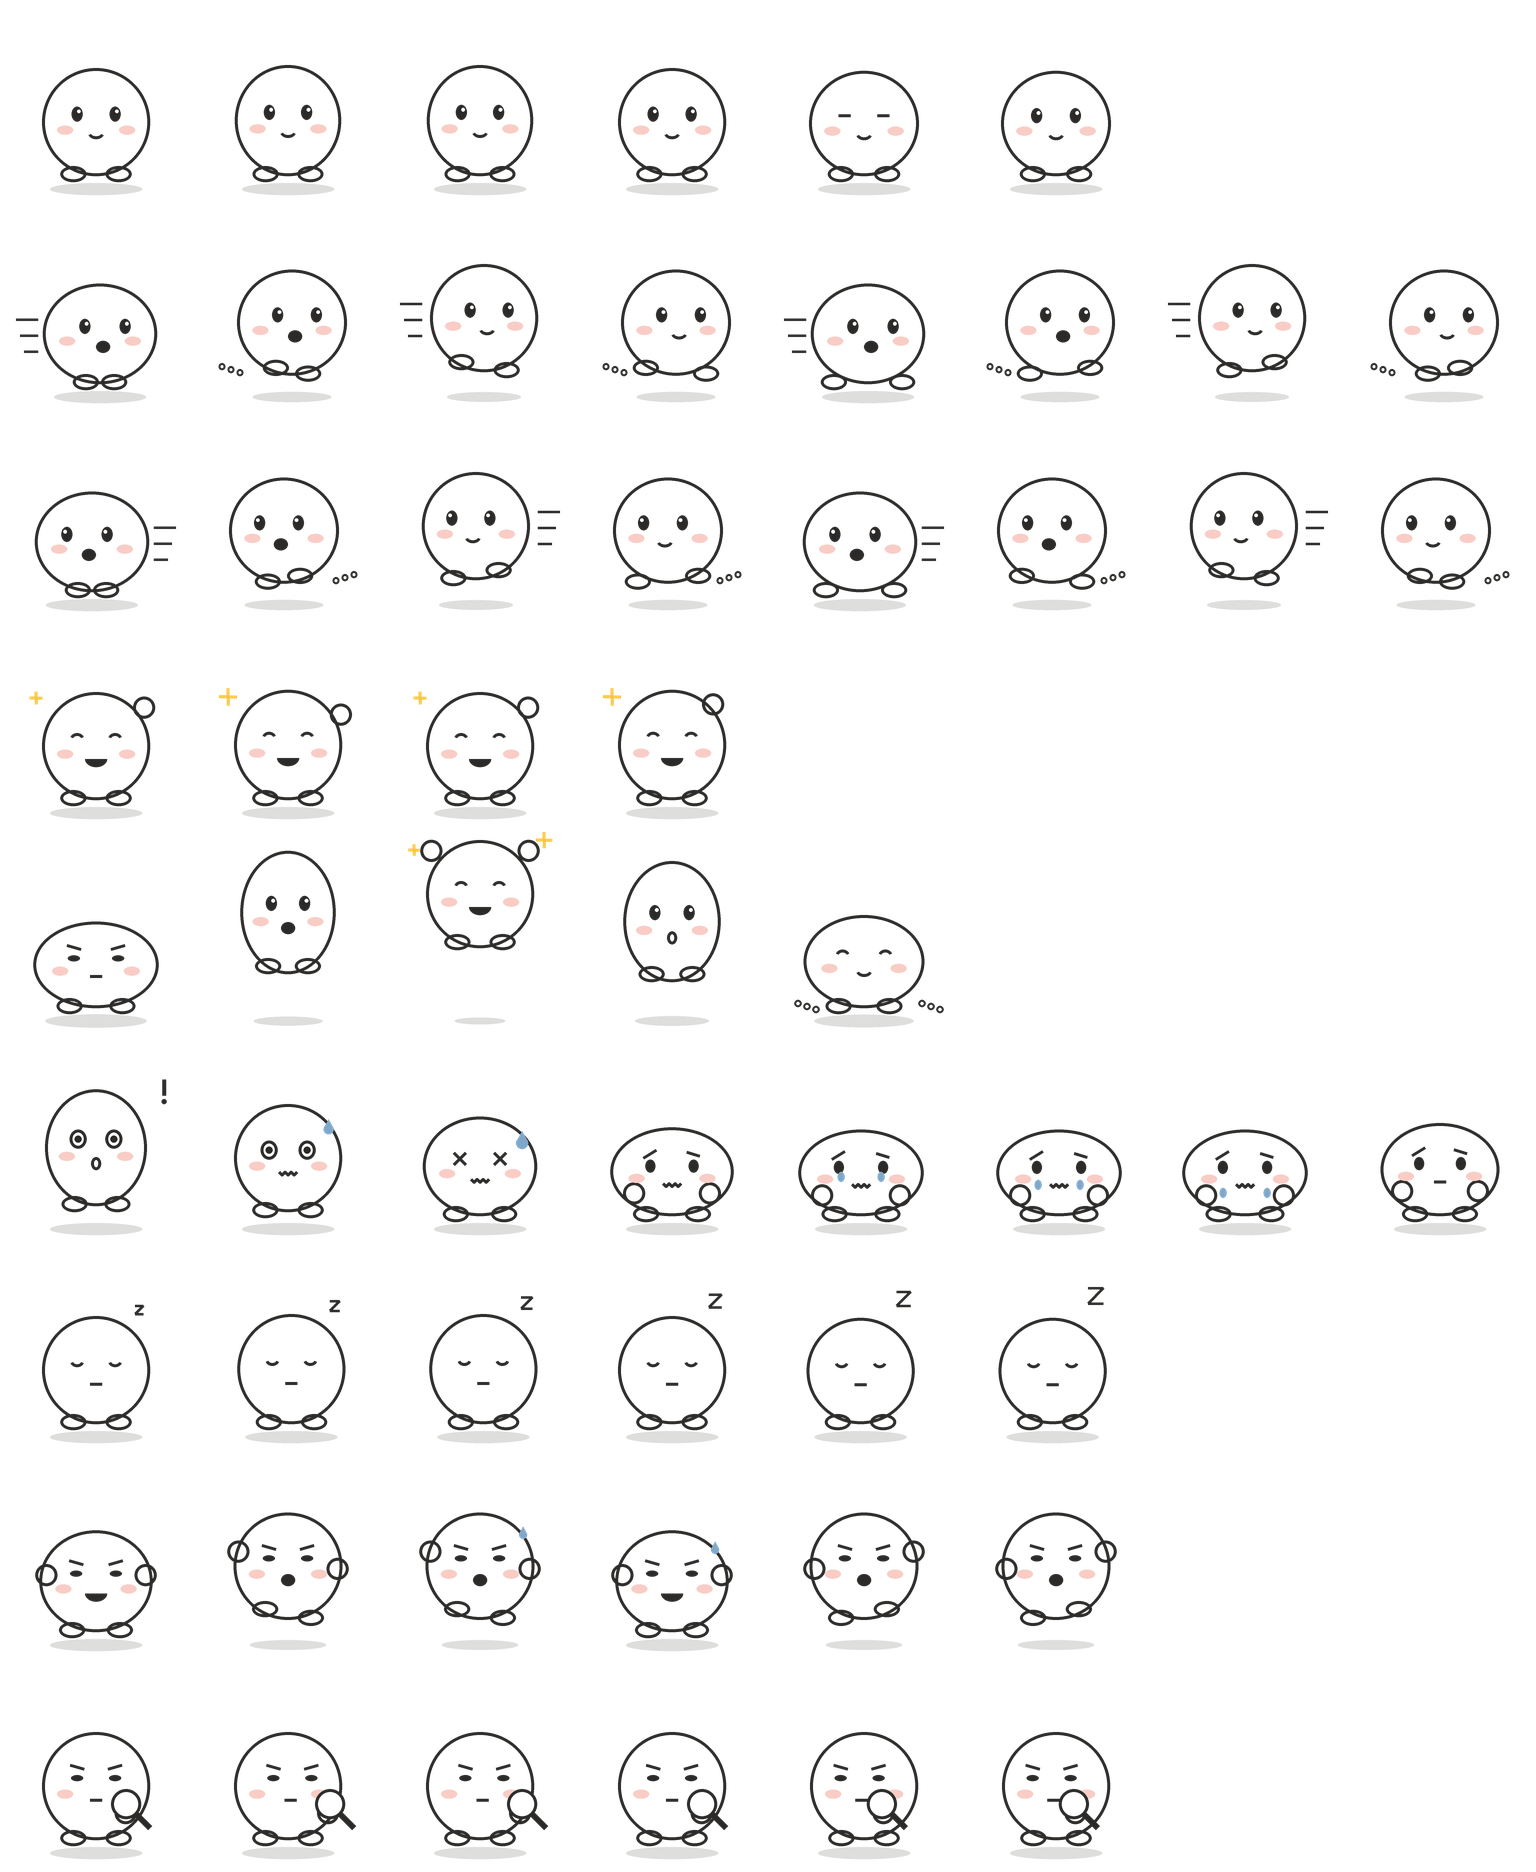
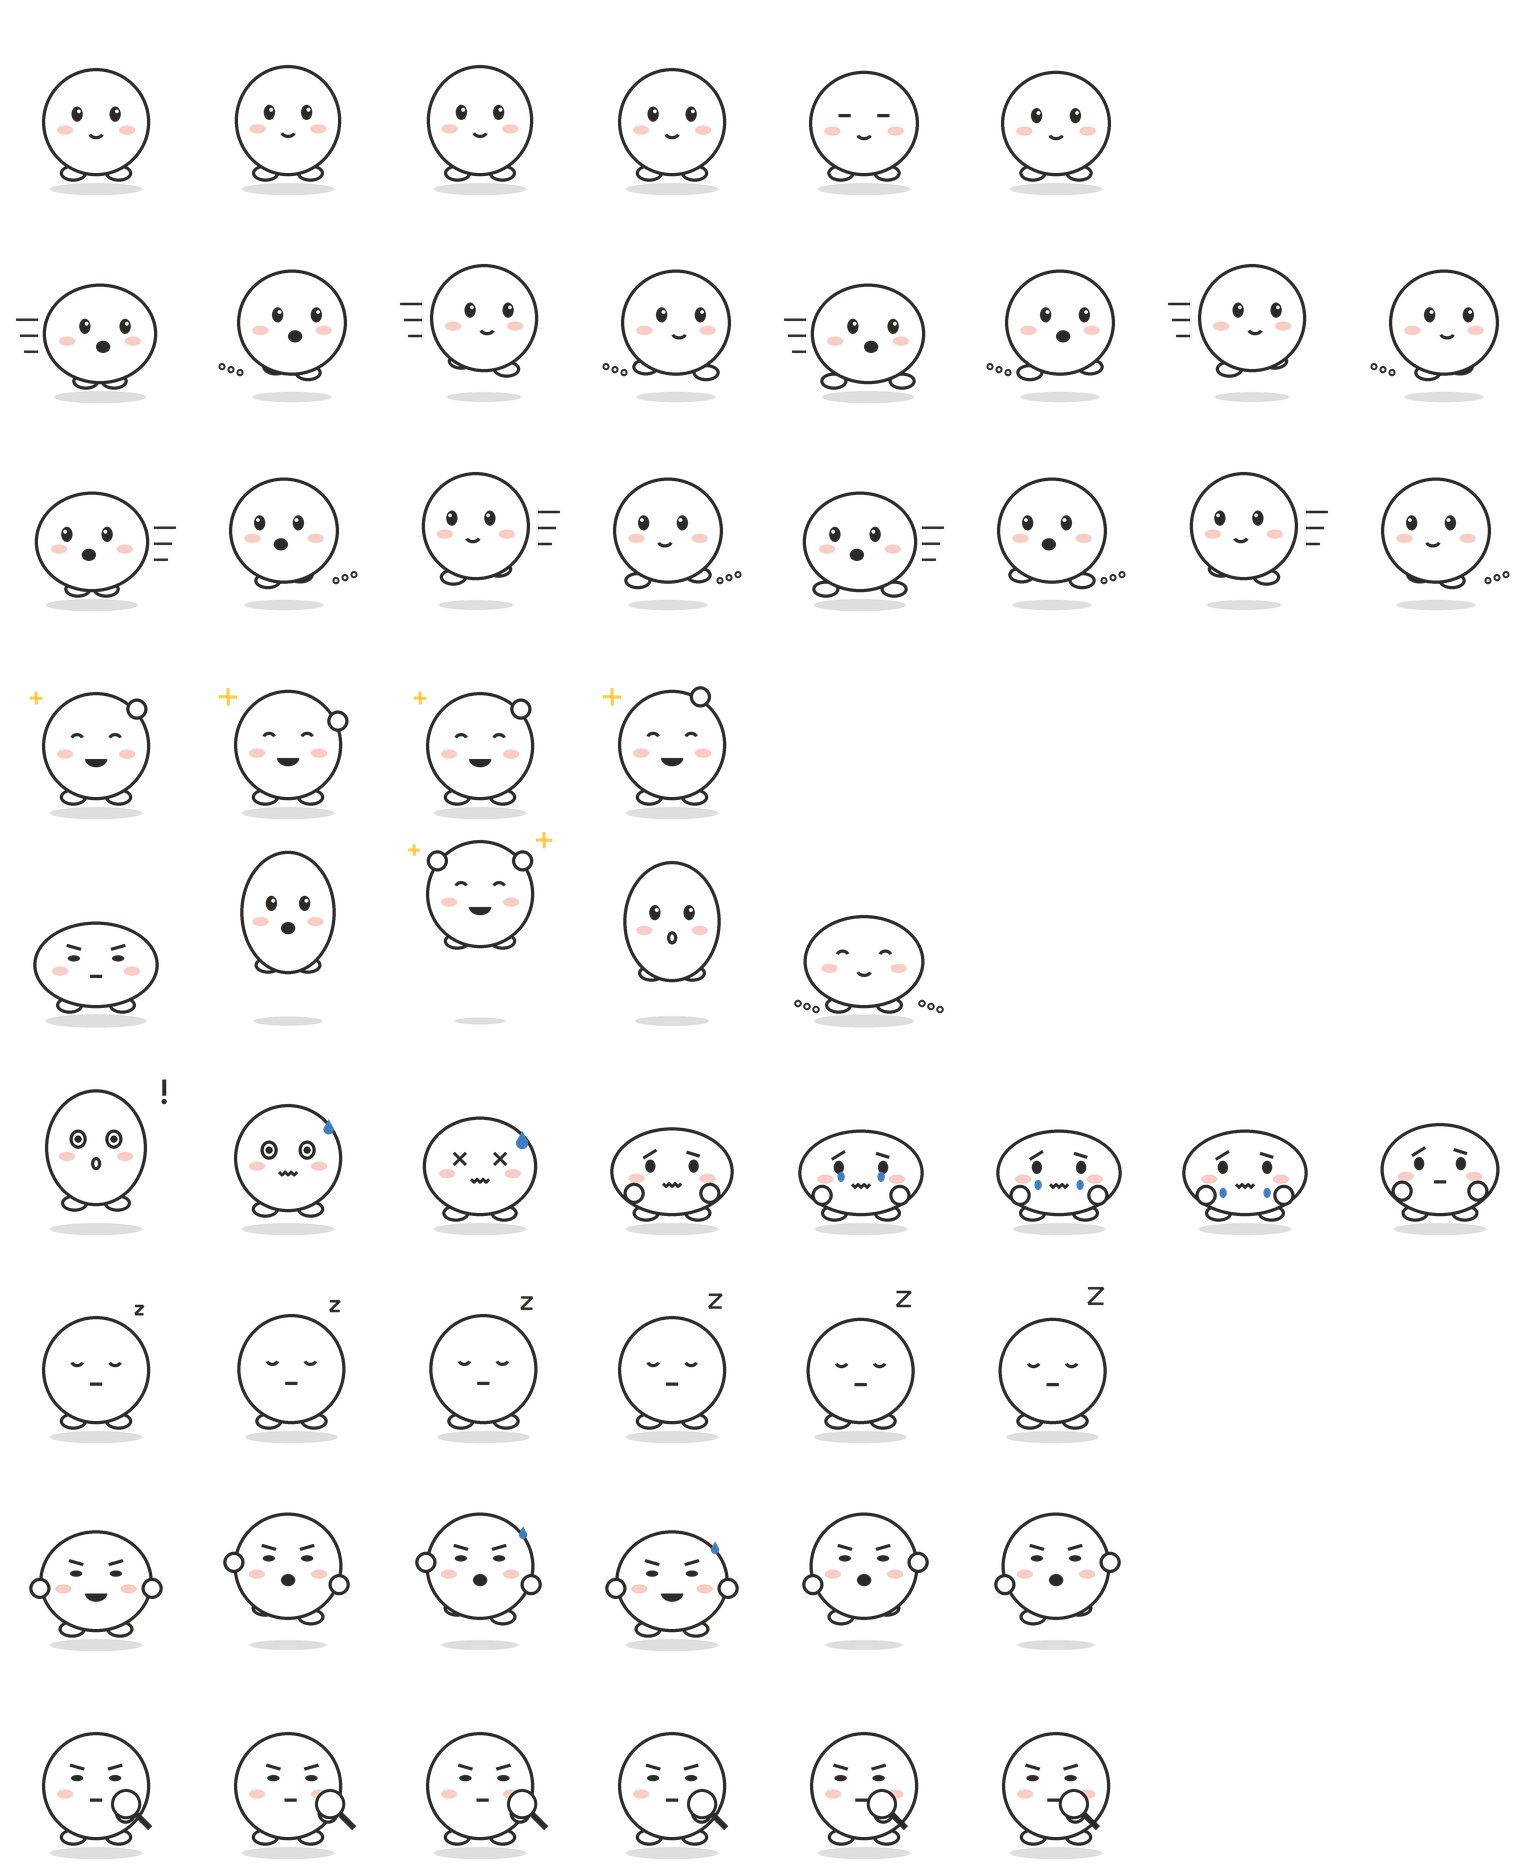
fix(hub): 晴晴的部件按前后顺序画，手不再悬空
- 脚在身体后面、手在前面，被挡住的描边不再穿过身体
- 招手、跳起、原地跑时手贴着身体边缘，不再像两只耳朵
- 身体左上角加一块半透明高光（在线条层，换天气色时保留）
- 影子不再压在脚上；描边略加粗；泪滴、汗珠换深一点的蓝，小雨天也看得清

diff --git a/tools/gen_pet_sheet.py b/tools/gen_pet_sheet.py
@@ -13,6 +13,8 @@
     0 idle 6   1 running-right 8   2 running-left 8   3 waving 4   4 jumping 5
     5 failed 8 6 waiting 6         7 running 6        8 review 6
 
+各部件按前后顺序画（脚在身体后面、手在前面），被挡住的描边不会露出来；手贴着身体边缘，不悬空。
+身体左上角一小块高光放在线条层里（半透明白色），换天气色时照样在。
 先在 4 倍画布上画再缩小（抗锯齿）。需要 Pillow：
 
     python3 tools/gen_pet_sheet.py
@@ -38,7 +40,7 @@ SUNNY = (0xF6, 0xC3, 0x44, 255)
 INK = (0x2B, 0x2A, 0x28, 255)
 CHEEK = (0xF2, 0x8C, 0x7A, 110)
 SHADOW = (0x2B, 0x2A, 0x28, 40)
-TEAR = (0x7F, 0xA7, 0xC9, 255)
+TEAR = (0x3E, 0x7C, 0xC4, 255)  # 比小雨天的身体色深，掉泪、冒汗时看得清
 WHITE = (255, 255, 255, 255)
 SPARK = (0xF6, 0xC3, 0x44, 255)
 
@@ -80,34 +82,36 @@ def ellipse(d: ImageDraw.ImageDraw, cx, cy, rx, ry, **kw):
     d.ellipse([s(cx - rx), s(cy - ry), s(cx + rx), s(cy + ry)], **kw)
 
 
-def draw_body(d: ImageDraw.ImageDraw, p: Pose, fill):
-    cx, cy, rx, ry = body_geom(p)
-    # 脚：两个小椭圆，在身体底部
-    for i, side in enumerate((-1, 1)):
-        fx = cx + side * rx * 0.42 + p.feet_dx[i]
-        fy = cy + ry - 2 - p.feet[i]
-        ellipse(d, fx, fy, 13, 8, fill=fill)
-    ellipse(d, cx, cy, rx, ry, fill=fill)
-    for h in (p.hand, p.hand2):
-        if h is not None:
-            ellipse(d, cx + h[0], cy + h[1], 11, 11, fill=fill)
+KEY = (0, 255, 0, 255)  # 渲染时身体的占位色，之后拆层用
+LW = 3.4  # 描边粗细（未放大前的像素）
 
 
-def draw_lines(d: ImageDraw.ImageDraw, p: Pose):
+def edge(p: Pose, deg: float, k: float = 0.98) -> tuple[float, float]:
+    """身体椭圆边上某个角度（0° 朝右，-90° 朝上）的点，相对圆心；手放这里就不会悬空。"""
+    _, _, rx, ry = body_geom(p)
+    a = math.radians(deg)
+    return rx * k * math.cos(a), ry * k * math.sin(a)
+
+
+def parts(p: Pose) -> list[tuple[float, float, float, float]]:
+    """按前后顺序列出身体各部件（椭圆）：脚 → 身体 → 手。"""
     cx, cy, rx, ry = body_geom(p)
-    w = int(s(3))
-    # 影子
-    sw = 46 * p.shadow
-    ellipse(d, cx, FLOOR + 3, sw, 6 * p.shadow, fill=SHADOW)
-    # 脚、身体、手的描边
+    out = []
     for i, side in enumerate((-1, 1)):
         fx = cx + side * rx * 0.42 + p.feet_dx[i]
-        fy = cy + ry - 2 - p.feet[i]
-        ellipse(d, fx, fy, 13, 8, outline=INK, width=w)
-    ellipse(d, cx, cy, rx, ry, outline=INK, width=w)
+        fy = cy + ry - 3 - p.feet[i]
+        out.append((fx, fy, 13.5, 8.5))
+    out.append((cx, cy, rx, ry))
     for h in (p.hand, p.hand2):
         if h is not None:
-            ellipse(d, cx + h[0], cy + h[1], 11, 11, outline=INK, width=w)
+            out.append((cx + h[0], cy + h[1], 10.5, 10.5))
+    return out
+
+
+def draw_features(d: ImageDraw.ImageDraw, p: Pose):
+    """五官、腮红与特效（都在线条层，不随天气变色）。"""
+    cx, cy, rx, ry = body_geom(p)
+    w = int(s(LW))
     # 五官
     ex, ey = 19 * p.sx, cy - 8 * p.sy
     look = p.look * 5
@@ -237,8 +241,10 @@ def run_right(n=8):
 def waving(n=4):
     out = []
     for i in range(n):
-        a = math.radians(-60 + 35 * math.sin(i / n * 2 * math.pi))
-        hand = (R * 0.78 + 12 * math.cos(a), -R * 0.42 + 18 * math.sin(a))
+        # 右手贴着身体右上边缘左右摆：-25° ~ -60°
+        deg = -42 + 17 * math.sin(i / n * 2 * math.pi)
+        p0 = Pose(sy=1 + 0.02 * (i % 2))
+        hand = edge(p0, deg, 1.02)
         out.append(Pose(eyes="happy", mouth="grin", hand=hand, sy=1 + 0.02 * (i % 2), extras=[("spark", -R - 6, -R + 6, 0.8 + 0.3 * (i % 2))]))
     return out
 
@@ -247,7 +253,7 @@ def jumping():
     return [
         Pose(sx=1.16, sy=0.8, eyes="squint", mouth="flat", shadow=1.1),
         Pose(dy=-34, sx=0.88, sy=1.14, eyes="open", mouth="open", feet=(6, 6), shadow=0.75),
-        Pose(dy=-60, eyes="happy", mouth="grin", hand=(R * 0.9, -R * 0.8), hand2=(-R * 0.9, -R * 0.8), feet=(4, 4), shadow=0.55, extras=[("spark", R + 10, -R, 1.0), ("spark", -R - 12, -R + 10, 0.7)]),
+        Pose(dy=-60, eyes="happy", mouth="grin", hand=edge(Pose(), -38, 1.0), hand2=edge(Pose(), -142, 1.0), feet=(4, 4), shadow=0.55, extras=[("spark", R + 10, -R, 1.0), ("spark", -R - 12, -R + 10, 0.7)]),
         Pose(dy=-26, sx=0.9, sy=1.12, eyes="open", mouth="o", feet=(6, 6), shadow=0.8),
         Pose(sx=1.12, sy=0.86, eyes="happy", mouth="smile", shadow=1.08, extras=[("dust", -R + 6, R - 6, 0.9), ("dust", R + 22, R - 6, 0.9)]),
     ]
@@ -287,8 +293,8 @@ def running(n=6):
                 eyes="squint",
                 mouth="grin" if i % 3 == 0 else "open",
                 feet=(10 * max(0, math.sin(ph)), 10 * max(0, -math.sin(ph))),
-                hand=(R * 0.92, -6 + 10 * math.sin(ph)),
-                hand2=(-R * 0.92, -6 - 10 * math.sin(ph)),
+                hand=edge(Pose(sx=1 + 0.05 * (1 - up), sy=1 - 0.06 * (1 - up)), 8 + 14 * math.sin(ph), 1.0),
+                hand2=edge(Pose(sx=1 + 0.05 * (1 - up), sy=1 - 0.06 * (1 - up)), 172 + 14 * math.sin(ph), 1.0),
                 extras=[("sweat", R * 0.8, -R * 0.6, 0.8)] if i in (2, 3) else [],
                 shadow=1 - 0.2 * up,
             )
@@ -308,32 +314,73 @@ def mirror(img: Image.Image) -> Image.Image:
     return img.transpose(Image.FLIP_LEFT_RIGHT)
 
 
-def render(pose: Pose, layer: str) -> Image.Image:
-    big = Image.new("RGBA", (CW * SS, CH * SS), (0, 0, 0, 0))
-    d = ImageDraw.Draw(big)
-    if layer == "body":
-        draw_body(d, pose, WHITE)
-    elif layer == "lines":
-        draw_lines(d, pose)
-    else:
-        draw_body(d, pose, SUNNY)
-        draw_lines(d, pose)
-    return big.resize((CW, CH), Image.LANCZOS)
+def render(pose: Pose) -> dict[str, Image.Image]:
+    """一帧画三层：完整图、身体蒙版、线条层。部件按前后顺序带描边画在占位色上，
+    这样被前面部件挡住的描边自然消失；再把占位色的像素拆成身体、其余拆成线条。"""
+    W_, H_ = CW * SS, CH * SS
+    w = int(s(LW))
+    occl = Image.new("RGBA", (W_, H_), (0, 0, 0, 0))
+    d = ImageDraw.Draw(occl)
+    for (x, y, rx, ry) in parts(pose):
+        ellipse(d, x, y, rx, ry, fill=KEY, outline=INK, width=w)
+    draw_features(d, pose)
+    # 身体蒙版：所有部件的填充（含被描边盖住的地方，线条层画在上面）
+    body = Image.new("L", (W_, H_), 0)
+    db = ImageDraw.Draw(body)
+    for (x, y, rx, ry) in parts(pose):
+        ellipse(db, x, y, rx, ry, fill=255)
+    # 线条层 = 渲染结果里不是占位色的像素
+    px = occl.load()
+    lines = occl.copy()
+    lp = lines.load()
+    for j in range(H_):
+        for i in range(W_):
+            if px[i, j] == KEY:
+                lp[i, j] = (0, 0, 0, 0)
+    # 高光：身体左上角一小块半透明白，只落在看得见的身体上
+    cx, cy, rx, ry = body_geom(pose)
+    hl = Image.new("RGBA", (W_, H_), (0, 0, 0, 0))
+    ImageDraw.Draw(hl).ellipse([s(cx - rx * 0.62), s(cy - ry * 0.72), s(cx - rx * 0.18), s(cy - ry * 0.46)], fill=(255, 255, 255, 80))
+    visible = Image.new("L", (W_, H_), 0)
+    vp = visible.load()
+    for j in range(H_):
+        for i in range(W_):
+            if px[i, j] == KEY:
+                vp[i, j] = 255
+    hl.putalpha(Image.composite(hl.split()[3], Image.new("L", (W_, H_), 0), visible))
+    # 影子：画在最底下，被身体挡住的部分去掉（小组件里线条层叠在身体上面）
+    sh = Image.new("RGBA", (W_, H_), (0, 0, 0, 0))
+    sw = 46 * pose.shadow
+    ellipse(ImageDraw.Draw(sh), cx, FLOOR + 3, sw, 6 * pose.shadow, fill=SHADOW)
+    sh.putalpha(Image.composite(Image.new("L", (W_, H_), 0), sh.split()[3], body))
+    line_layer = Image.new("RGBA", (W_, H_), (0, 0, 0, 0))
+    line_layer.alpha_composite(sh)
+    line_layer.alpha_composite(hl)
+    line_layer.alpha_composite(lines)
+    body_rgba = Image.new("RGBA", (W_, H_), WHITE)
+    body_rgba.putalpha(body)
+    full = Image.new("RGBA", (W_, H_), (0, 0, 0, 0))
+    tint = Image.new("RGBA", (W_, H_), SUNNY)
+    tint.putalpha(body)
+    full.alpha_composite(tint)
+    full.alpha_composite(line_layer)
+    return {k: v.resize((CW, CH), Image.LANCZOS) for k, v in (("full", full), ("body", body_rgba), ("lines", line_layer))}
 
 
 def main() -> None:
     rr = run_right()
     rows = [idle(), rr, rr, waving(), jumping(), failed(), waiting(), running(), review()]
     OUT.mkdir(parents=True, exist_ok=True)
-    for layer, name in (("full", "spritesheet.png"), ("body", "body.png"), ("lines", "lines.png")):
-        sheet = Image.new("RGBA", (COLS * CW, ROWS * CH), (0, 0, 0, 0))
-        for r, poses in enumerate(rows):
-            for c, pose in enumerate(poses):
-                img = render(pose, layer)
+    sheets = {k: Image.new("RGBA", (COLS * CW, ROWS * CH), (0, 0, 0, 0)) for k in ("full", "body", "lines")}
+    for r, poses in enumerate(rows):
+        for c, pose in enumerate(poses):
+            layers = render(pose)
+            for k, img in layers.items():
                 if r == 2:  # 向左跑：向右跑的镜像
                     img = mirror(img)
-                sheet.paste(img, (c * CW, r * CH))
-        sheet.save(OUT / name, optimize=True)
+                sheets[k].paste(img, (c * CW, r * CH))
+    for k, name in (("full", "spritesheet.png"), ("body", "body.png"), ("lines", "lines.png")):
+        sheets[k].save(OUT / name, optimize=True)
     manifest = {
         "id": "qingqing",
         "displayName": "晴晴",
